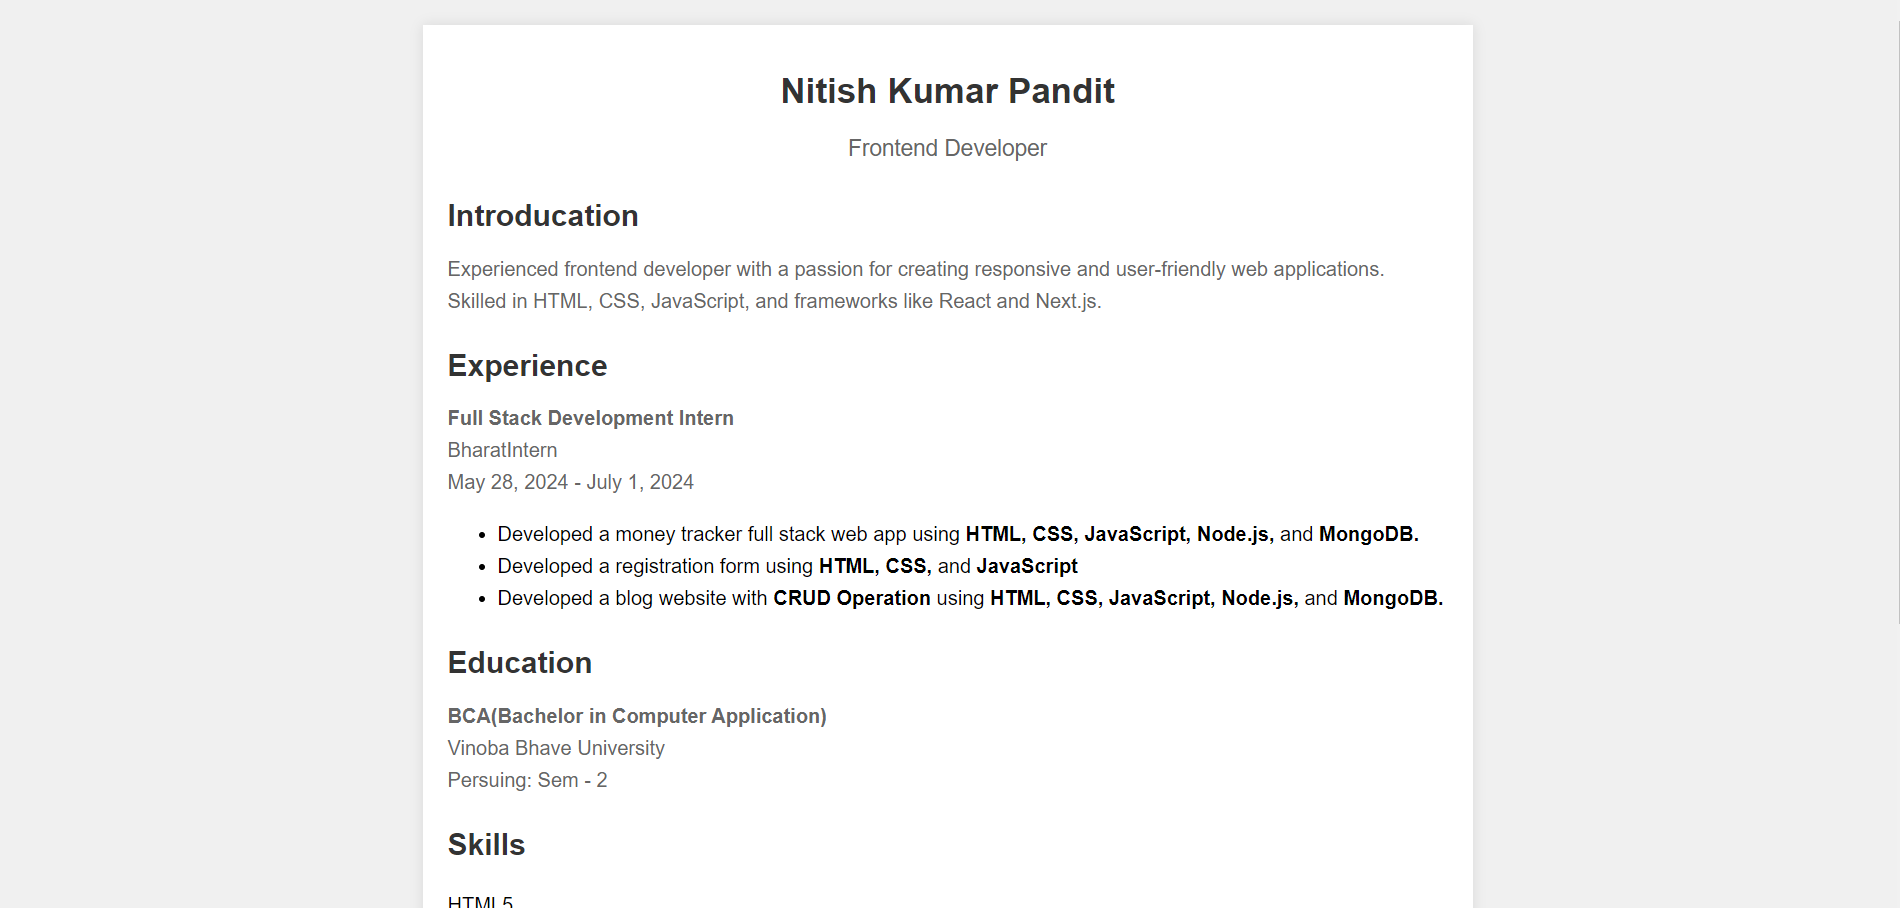
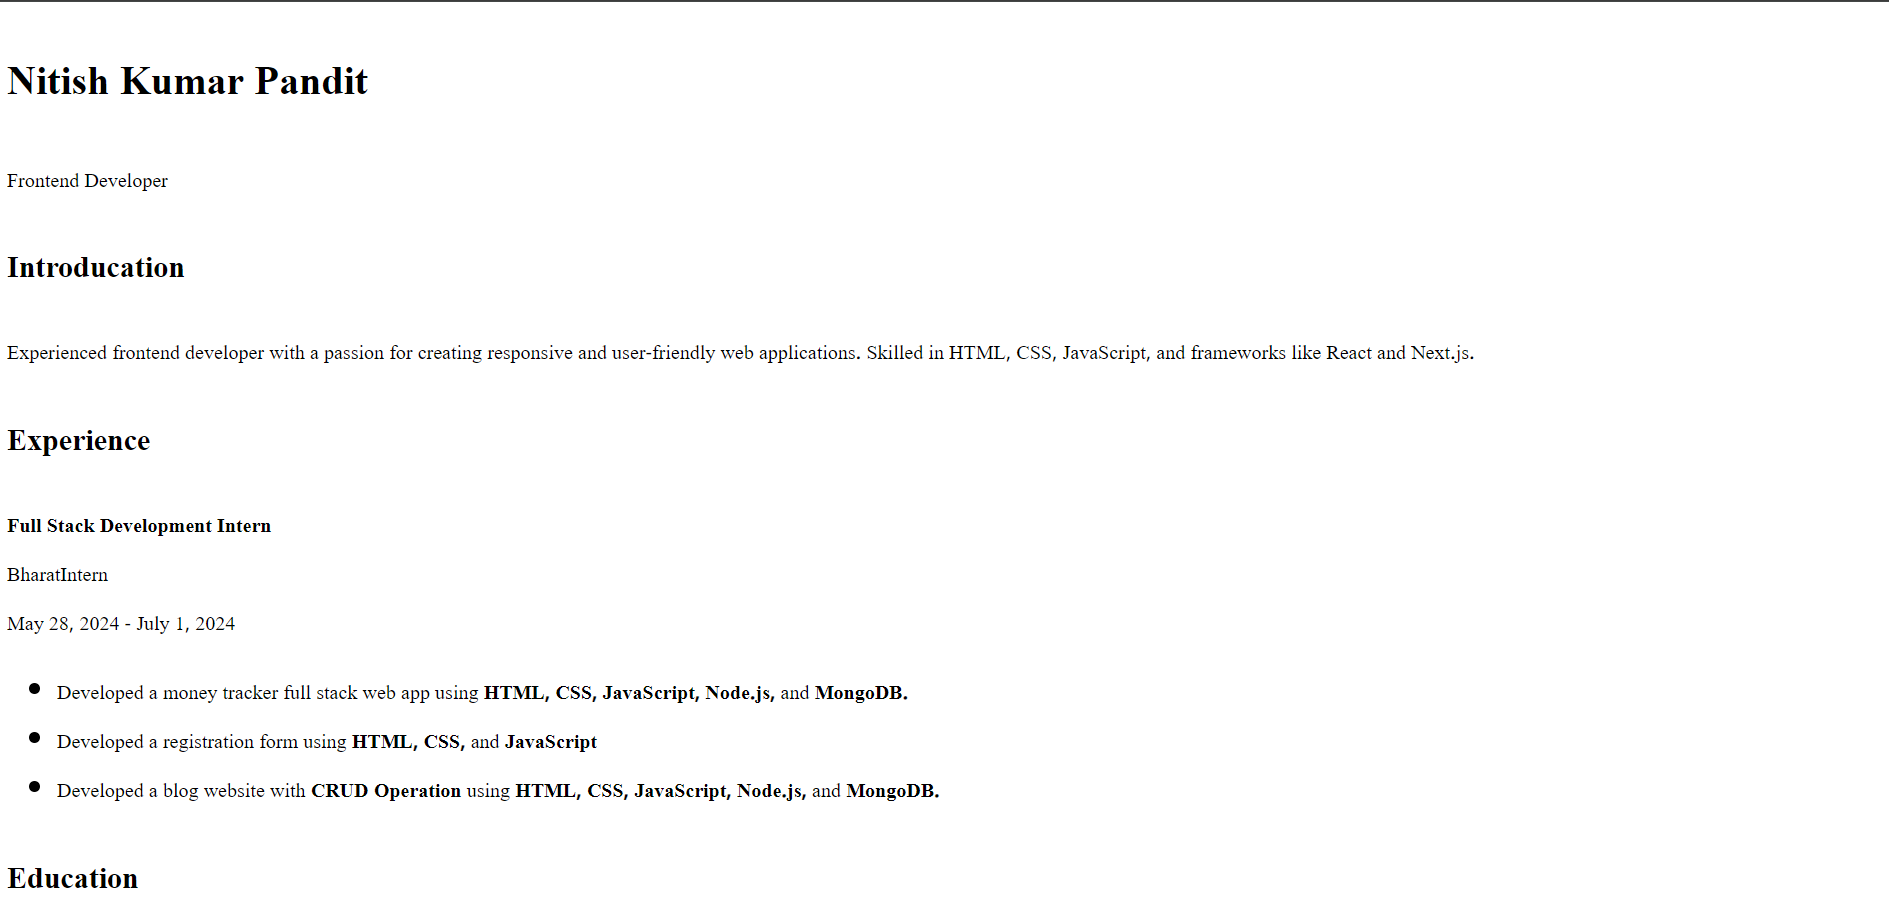
Updated task-1

diff --git a/index.html b/index.html
@@ -4,61 +4,6 @@
     <meta charset="UTF-8" />
     <meta name="viewport" content="width=device-width, initial-scale=1.0" />
     <title>John Doe - Resume</title>
-    <style>
-      body {
-        font-family: Arial, sans-serif;
-        line-height: 1.6;
-        margin: 20px;
-        padding: 0;
-        background-color: #f0f0f0;
-      }
-      .resume {
-        max-width: 800px;
-        margin: auto;
-        background-color: #fff;
-        padding: 20px;
-        box-shadow: 0 0 10px rgba(0, 0, 0, 0.1);
-      }
-      .header {
-        text-align: center;
-        margin-bottom: 20px;
-      }
-      .header h1 {
-        color: #333;
-        font-size: 28px;
-        margin: 10px 0;
-      }
-      .header p {
-        font-size: 18px;
-        margin: 5px 0;
-        color: #666;
-      }
-      .section {
-        margin-bottom: 20px;
-      }
-      .section h2 {
-        color: #333;
-        font-size: 24px;
-        margin-bottom: 10px;
-      }
-      .section p {
-        color: #666;
-        font-size: 16px;
-        margin: 5px 0;
-      }
-      .skills ul {
-        list-style-type: none;
-        padding: 0;
-      }
-      .skills li {
-        margin-bottom: 5px;
-      }
-      .footer {
-        text-align: center;
-        margin-top: 20px;
-        color: #666;
-      }
-    </style>
   </head>
   <body>
     <div class="resume">

diff --git a/README.md b/README.md
@@ -5,7 +5,6 @@ Developed simple and stylish resume using only HTML. It includes sections for pe
 ## Files Included
 
 - **index.html**: Contains the HTML structure and content of the resume.
-- **styles.css**: CSS file for styling the resume.
 - **README.md**: This file, providing an overview and instructions for the project.
 
 ## Project Structure
@@ -13,7 +12,7 @@ Developed simple and stylish resume using only HTML. It includes sections for pe
 The HTML file (`index.html`) is structured with several `<div>` elements, each representing a section of the resume:
 
 - **Header**: Includes the name and job title.
-- **Summary**: A brief overview of the individual's professional profile.
+- **Introdution**: A brief overview of the individual's professional profile.
 - **Experience**: Details of past work experience.
 - **Education**: Information about the individual's educational background.
 - **Skills**: List of relevant skills.
@@ -21,12 +20,11 @@ The HTML file (`index.html`) is structured with several `<div>` elements, each r
 
 ## How to Use
 
-1. Clone the repository or download the files (`index.html` and `styles.css`).
+1. Clone the repository or download the files (`index.html`).
 2. Open `index.html` in a web browser to view the resume.
 3. Modify the content of `index.html` to fit your own information:
    - Update the name, job title, summary, experience, education, skills, and contact details as needed.
-4. Customize the styles in `styles.css` to change colors, fonts, layout, etc., to match your preferences.
-5. Save your changes and refresh the browser to see the updated resume.
+4. Save your changes and refresh the browser to see the updated resume.
 
 ## Example
 
